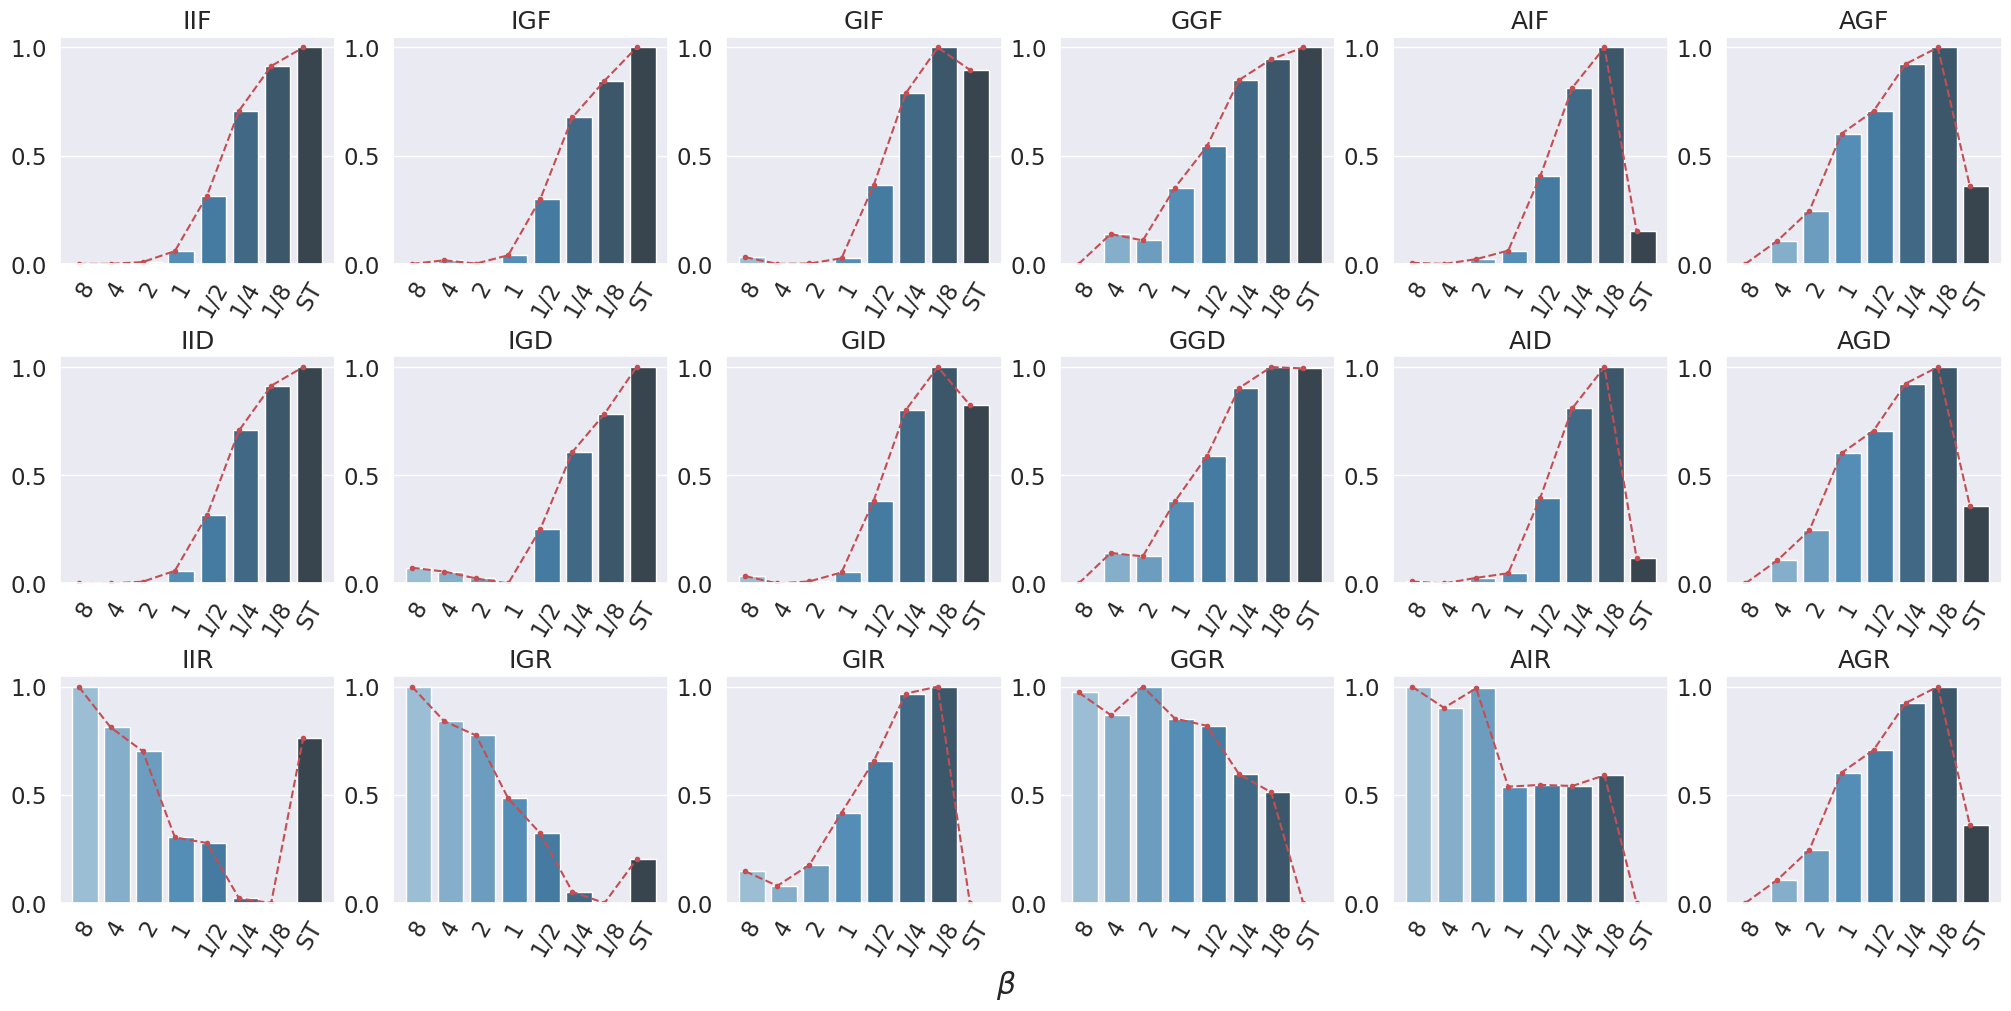
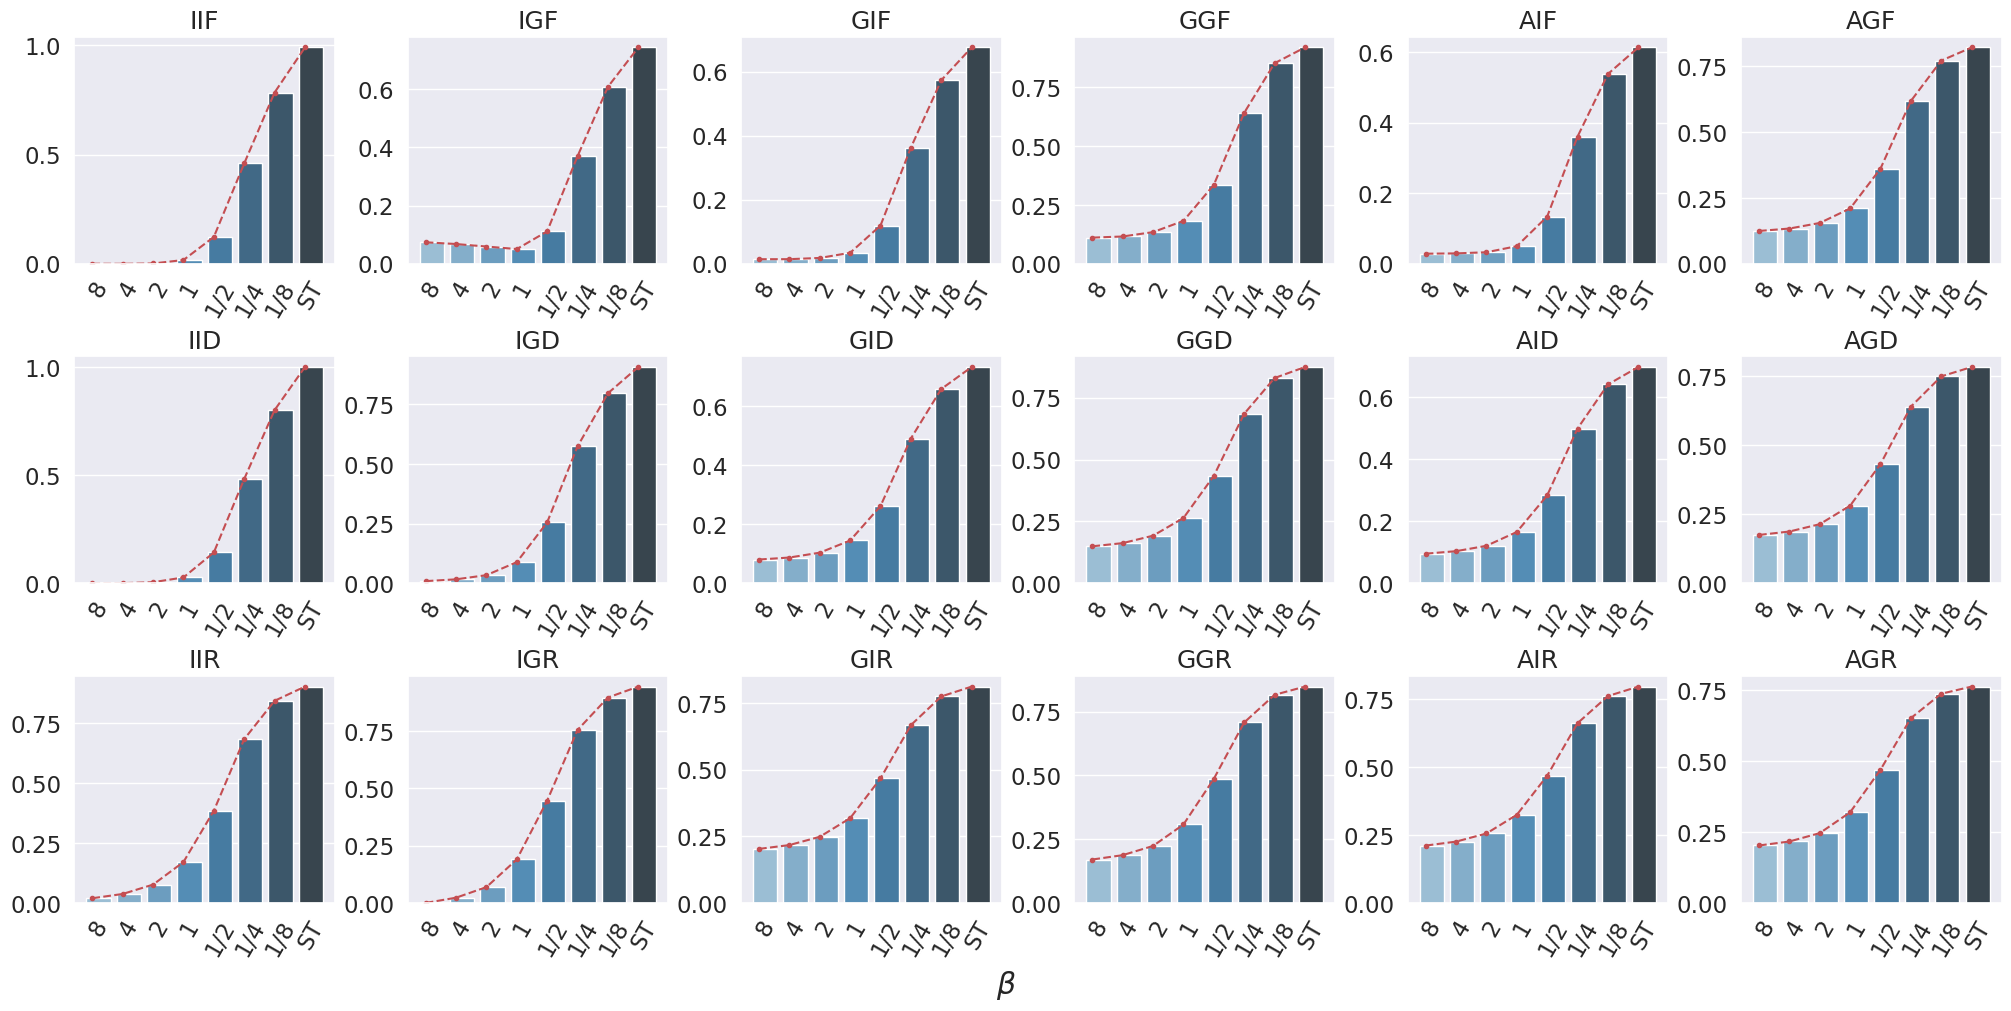
Edit postprocessing and directory for occupation

diff --git a/postprocessing.py b/postprocessing.py
@@ -24,6 +24,9 @@ def load_data(model, Experiment_nr, group, metric_list = metric_list, apply_min_
             if group == 'Age':
                 metrics = json.load(open('./save_exp/ml-1m/Experiment_' + str(Experiment_nr) + '_' + model + '/' + group +'/' + metric_list[metric][component]+ '_all_' + model + '_Y.json', 'r'))
                 static  = json.load(open('./save_exp/ml-1m/Experiment_' + str(Experiment_nr) + '_' + model + '/' + group +'/' + metric_list[metric][component] +'_all_' + model + '_static_Y.json', 'r'))
+            elif group == 'Occupation':
+                metrics = json.load(open('./save_exp/ml-1m/Experiment_' + str(Experiment_nr) + '_' + model + '/' + group +'/' + metric_list[metric][component]+ '_all_' + model + '.json', 'r'))
+                static  = json.load(open('./save_exp/ml-1m/Experiment_' + str(Experiment_nr) + '_' + model + '/' + group +'/' + metric_list[metric][component] +'_all_' + model + '_static.json', 'r'))
             elif group == 'Gender':
                 metrics = json.load(open('./save_exp/ml-1m/Experiment_' + str(Experiment_nr) + '_' + model + '/' + group +'/' + metric_list[metric][component]+ '_all_' + model + '.json', 'r'))
                 static  = json.load(open('./save_exp/ml-1m/Experiment_' + str(Experiment_nr) + '_' + model + '/' + group +'/' + metric_list[metric][component] +'_all_' + model + '_static.json', 'r'))
@@ -139,12 +142,12 @@ def figure_3(models, model_name = ['BPRMF', 'LDA', 'PureSVD', 'SLIM', 'WRMF'], c
     plt.savefig('Figure_3.png', bbox_inches = 'tight')
 
 # Load unnormalized data
-"""
+
 BPRMF = load_data('BPRMF', 1, group)
-LDA = load_data('LDA', 2, group)
-PureSVD = load_data('PureSVD', 3, group)
-SLIM = load_data('SLIM', 4, group)
-WRMF = load_data('WRMF', 5, group)
+LDA = load_data('LDA', 3, group)
+PureSVD = load_data('PureSVD', 4, group)
+SLIM = load_data('SLIM', 5, group)
+WRMF = load_data('WRMF', 6, group)
 all_models = [BPRMF, LDA, PureSVD, SLIM, WRMF]
 
 # Find global min and max across all models per metric per component
@@ -153,21 +156,20 @@ global_min, global_max = find_global_min_max(all_models)
 
 # Normalize data
 BPRMF = load_data('BPRMF', 1, group, apply_min_max=True, max_ = global_max, min_ = global_min)
-LDA = load_data('LDA', 2, group, apply_min_max=True, max_ = global_max, min_ = global_min)
-PureSVD = load_data('PureSVD', 3, group, apply_min_max=True, max_ = global_max, min_ = global_min)
-SLIM = load_data('SLIM', 4, group, apply_min_max=True, max_ = global_max, min_ = global_min)
-WRMF = load_data('WRMF', 5, group, apply_min_max=True, max_ = global_max, min_ = global_min)
+LDA = load_data('LDA', 3, group, apply_min_max=True, max_ = global_max, min_ = global_min)
+PureSVD = load_data('PureSVD', 4, group, apply_min_max=True, max_ = global_max, min_ = global_min)
+SLIM = load_data('SLIM', 5, group, apply_min_max=True, max_ = global_max, min_ = global_min)
+WRMF = load_data('WRMF', 6, group, apply_min_max=True, max_ = global_max, min_ = global_min)
 all_models_norm = [BPRMF, LDA, PureSVD, SLIM, WRMF]
-"""
-'''
-BPRMF_mm = load_data('BPRMF', 1, group, apply_min_max= True)
+
+#BPRMF_mm = load_data('BPRMF', 1, group, apply_min_max= True)
 #figure_2(BPRMF_mm)
 
-BPRMF_mm = load_data('BPRMF', 1, 'lt', apply_min_max= True)
-figure_2(BPRMF_mm)
-figure_3([BPRMF_mm])
-'''
-BPRMF_new = load_data('BPRMF', 1, 'lt', apply_min_max= True)
-figure_2(BPRMF_new)
-figure_3([BPRMF_new])
-#figure_3(all_models_norm)
+# BPRMF_mm = load_data('BPRMF', 1, 'lt', apply_min_max= True)
+figure_2(BPRMF)
+# figure_3([BPRMF_mm])
+
+# BPRMF_new = load_data('BPRMF', 1, 'lt', apply_min_max= True)
+# figure_2(BPRMF_new)
+# figure_3([BPRMF_new])
+figure_3(all_models_norm)
